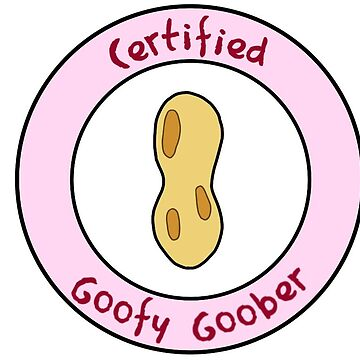
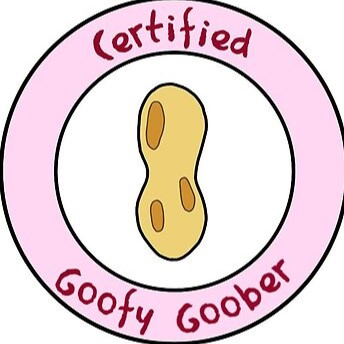
updated site

diff --git a/funky.css b/funky.css
@@ -263,8 +263,6 @@ h1 {
     box-shadow: 0px 0px 0px 1px rgba(255, 255, 255, 1) inset;
     -webkit-box-shadow: 0px 0px 0px 1px rgba(255, 255, 255, 1) inset;
     -moz-box-shadow: 0px 0px 0px 1px rgba(255, 255, 255, 1) inset;
-    filter: grayscale(100%);
-    -webkit-filter: grayscale(100%);
     border-radius: var(--borderRadius) 0 0 var(--borderRadius);
 }
 
@@ -362,7 +360,7 @@ h1 {
 .bioSection {
     width: 80%;
     height: 100%;
-    padding: 2rem;
+    padding: 2rem 1rem 2rem 2rem;
     box-shadow: 0px 0px 0px 1px rgba(255, 255, 255, 1) inset;
     -webkit-box-shadow: 0px 0px 0px 1px rgba(255, 255, 255, 1) inset;
     -moz-box-shadow: 0px 0px 0px 1px rgba(255, 255, 255, 1) inset;
@@ -376,6 +374,8 @@ h1 {
     border-radius: var(--borderRadius);
     background: rgb(0, 0, 0);
     background: linear-gradient(180deg, rgba(0, 0, 0, 1) 0%, rgba(103, 103, 103, 1) 100%);
+    margin-bottom: 1rem;
+    margin-right: 1rem;
 }
 
 .boxHighlight {
@@ -431,4 +431,72 @@ h1 {
     top: -0.1rem;
     left: -0.15rem;
     z-index: -99;
+}
+
+header {
+    display: flex;
+    flex-direction: row;
+    align-items: end;
+    margin-bottom: -0.5rem;
+    font-size: 3.5rem;
+}
+
+.headerBlock {
+    width: 0.25rem;
+    height: 3rem;
+    background-color: #ffffff;
+    margin-right: 0.75rem;
+    align-self: flex-start;
+}
+
+.gooberBadge {
+    width: 6rem;
+    height: 6rem;
+    background-color: #ffffff;
+    background-image: url(./assets/images/goober.jpg);
+    background-size: cover;
+    background-repeat: no-repeat;
+    background-position: center;
+    border-radius: 100%;
+    transform: rotate(15deg);
+    border: #000 solid 1px;
+    animation: badgeRotate 10s linear 1s infinite;
+}
+
+@keyframes badgeRotate {
+    0% {
+        transform: rotate(0deg);
+    }
+    100% {
+        transform: rotate(359deg);
+    }
+}
+
+.socials {
+    display: flex;
+    margin-top: 0.5rem;
+}
+
+.socialIcons {
+    margin-right: 1rem;
+}
+
+.boxFlexWrapper {
+    display: flex;
+    flex-direction: row;
+}
+
+#support {
+    width: 100%;
+}
+
+.youtubeSection {
+    width: 100%;
+    height: 27rem;
+    padding: 2rem;
+    box-shadow: 0px 0px 0px 1px rgba(255, 255, 255, 1) inset;
+    -webkit-box-shadow: 0px 0px 0px 1px rgba(255, 255, 255, 1) inset;
+    -moz-box-shadow: 0px 0px 0px 1px rgba(255, 255, 255, 1) inset;
+    border-radius: var(--borderRadius);
+    margin: 2rem 0;
 }

diff --git a/index.html b/index.html
@@ -83,19 +83,43 @@
 
             </div>
             <div class="bioSection">
+                
                 <div class="boxContainer">
                     <div class="boxHighlight"></div>
-                    <p>Hi there, I'm Ishikaze. I make funky sounds and post them online.</p>
+                    <header>
+                        ## Who am I?
+                    </header>
+                    <p>
+                        Hi there, I'm Ishikaze. I make funky sounds and post them online. <br>
+                        I am also a certified goober.
+                    </p>
+                    <div class="gooberBadge"></div>
                 </div>
+                <div class="boxFlexWrapper">
+                    <div class="boxContainer">
+                        <div class="boxHighlight"></div>
+                        <p>stalk me. please.</p>
+                        <div class="socials">
+                            <div class="socialIcons"><i class="fa-brands fa-spotify"></i></div>
+                            <div class="socialIcons"><i class="fa-brands fa-youtube"></i></div>
+                            <div class="socialIcons"><i class="fa-brands fa-instagram"></i></div>
+                            <div class="socialIcons"><i class="fa-brands fa-threads"></i></div>
+                            <div class="socialIcons"><i class="fa-brands fa-discord"></i></div>
+                        </div>
+                    </div>
+                    <div class="boxContainer" id="support">
+                        <p>cool empty box</p>
+                    </div>
+                </div>
+                
             </div>
         </div>
-        <div class="placholder">
-            placeholder box to take up space
+        <div class="mainSection">
+            <div class="youtubeSection">
+                <p>youtube feed goes here</p>
+            </div>
         </div>
 
-        <div class="cityContainer">
-            <div class="city"></div>
-        </div>
     </div>
 
 
